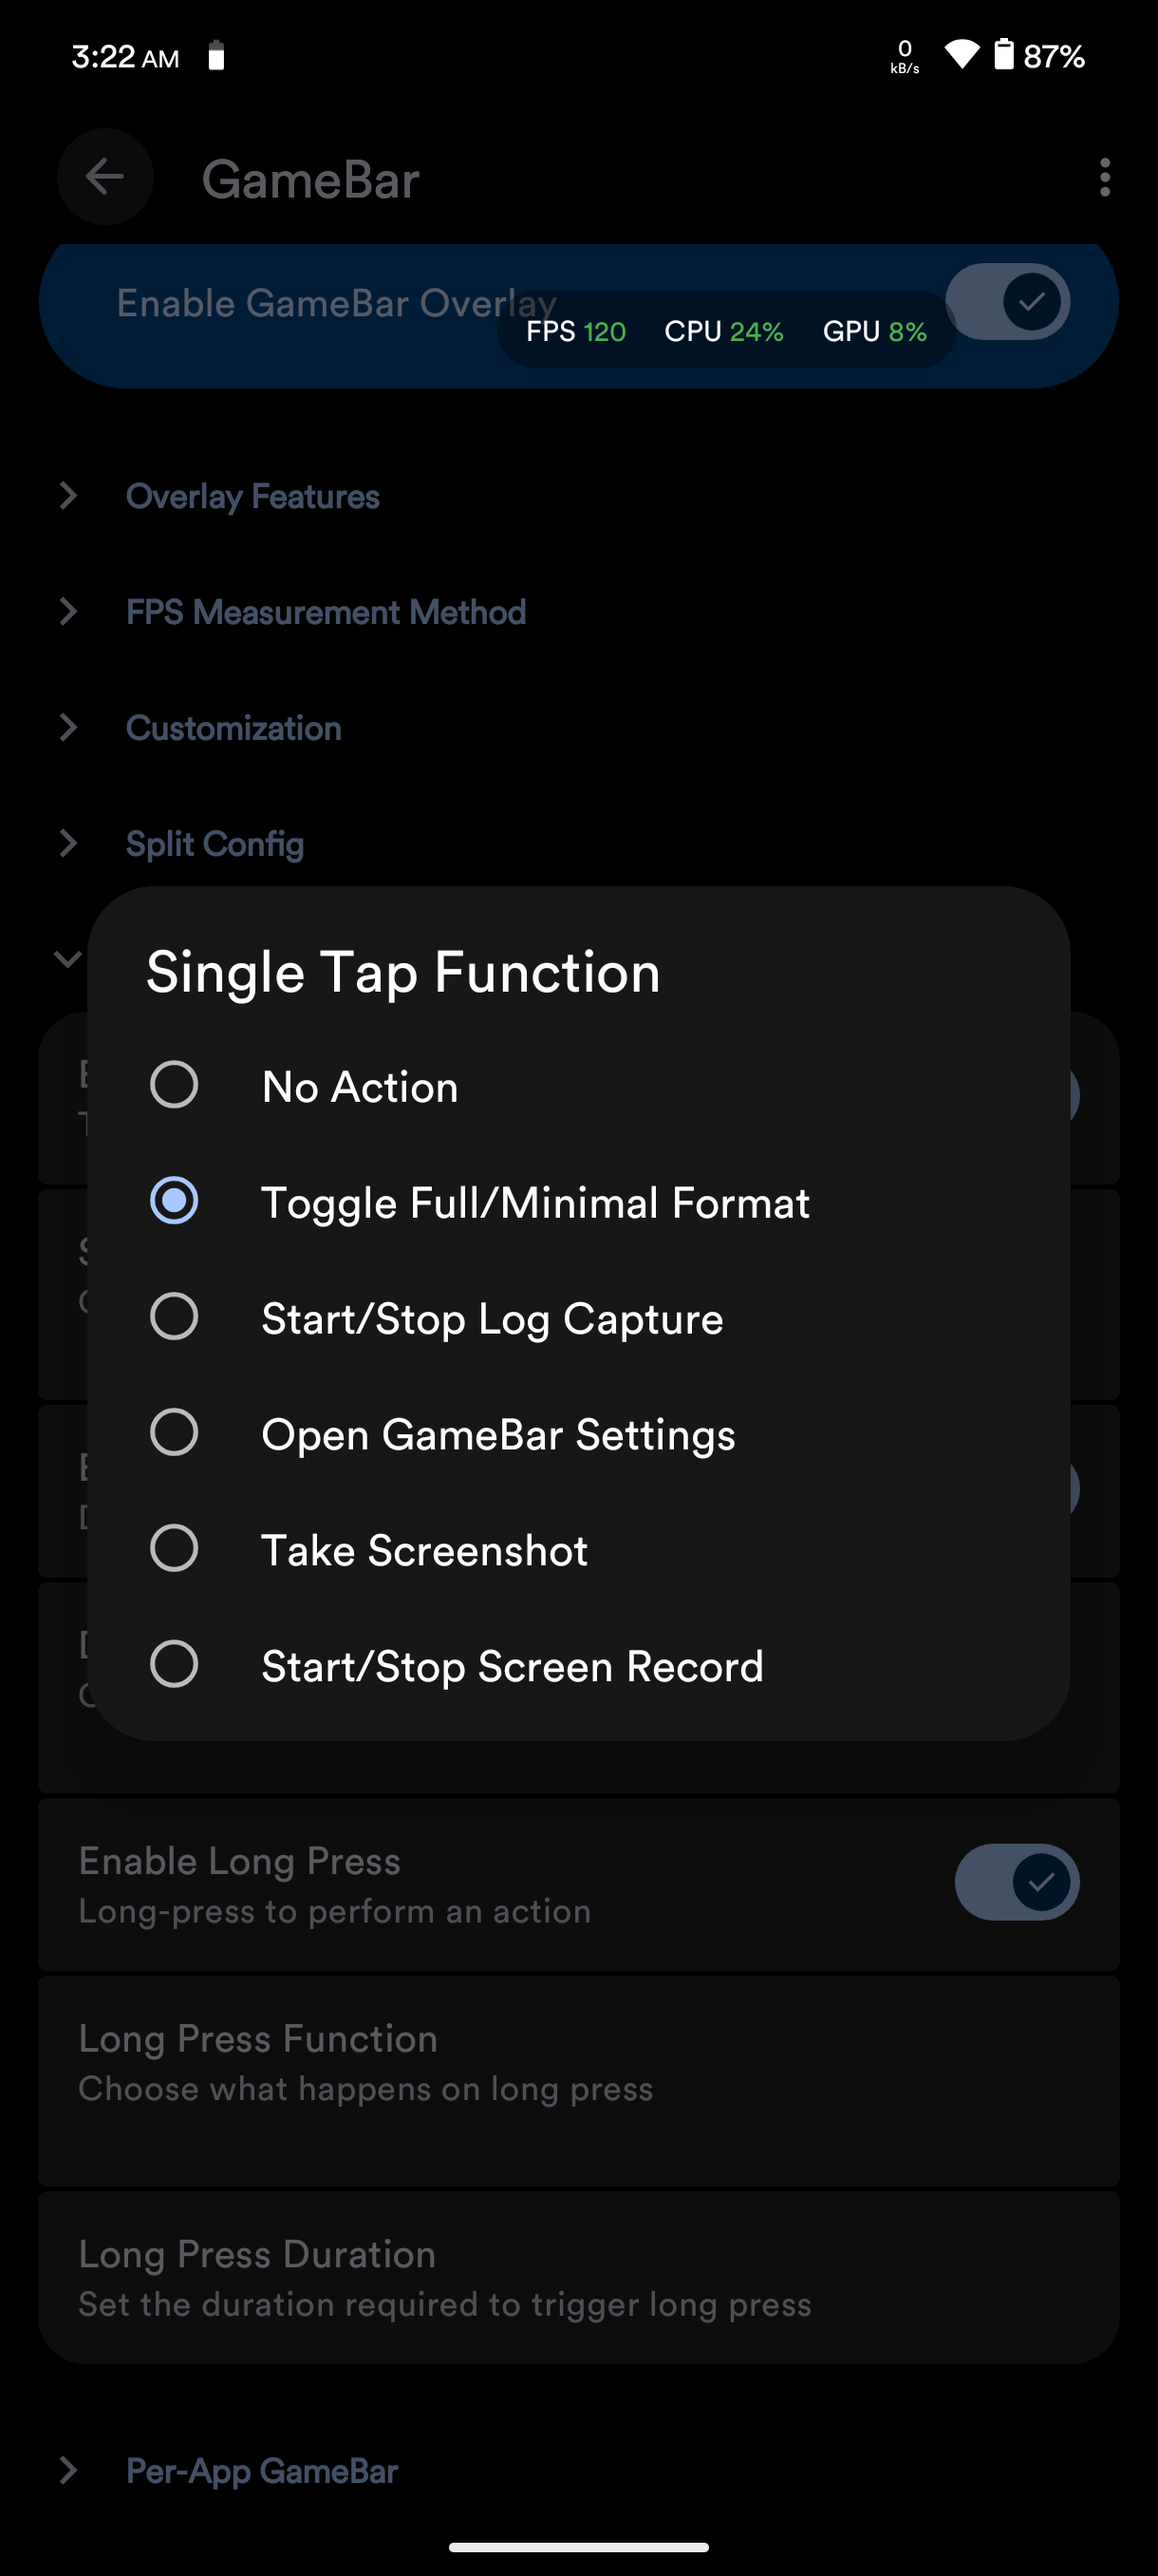
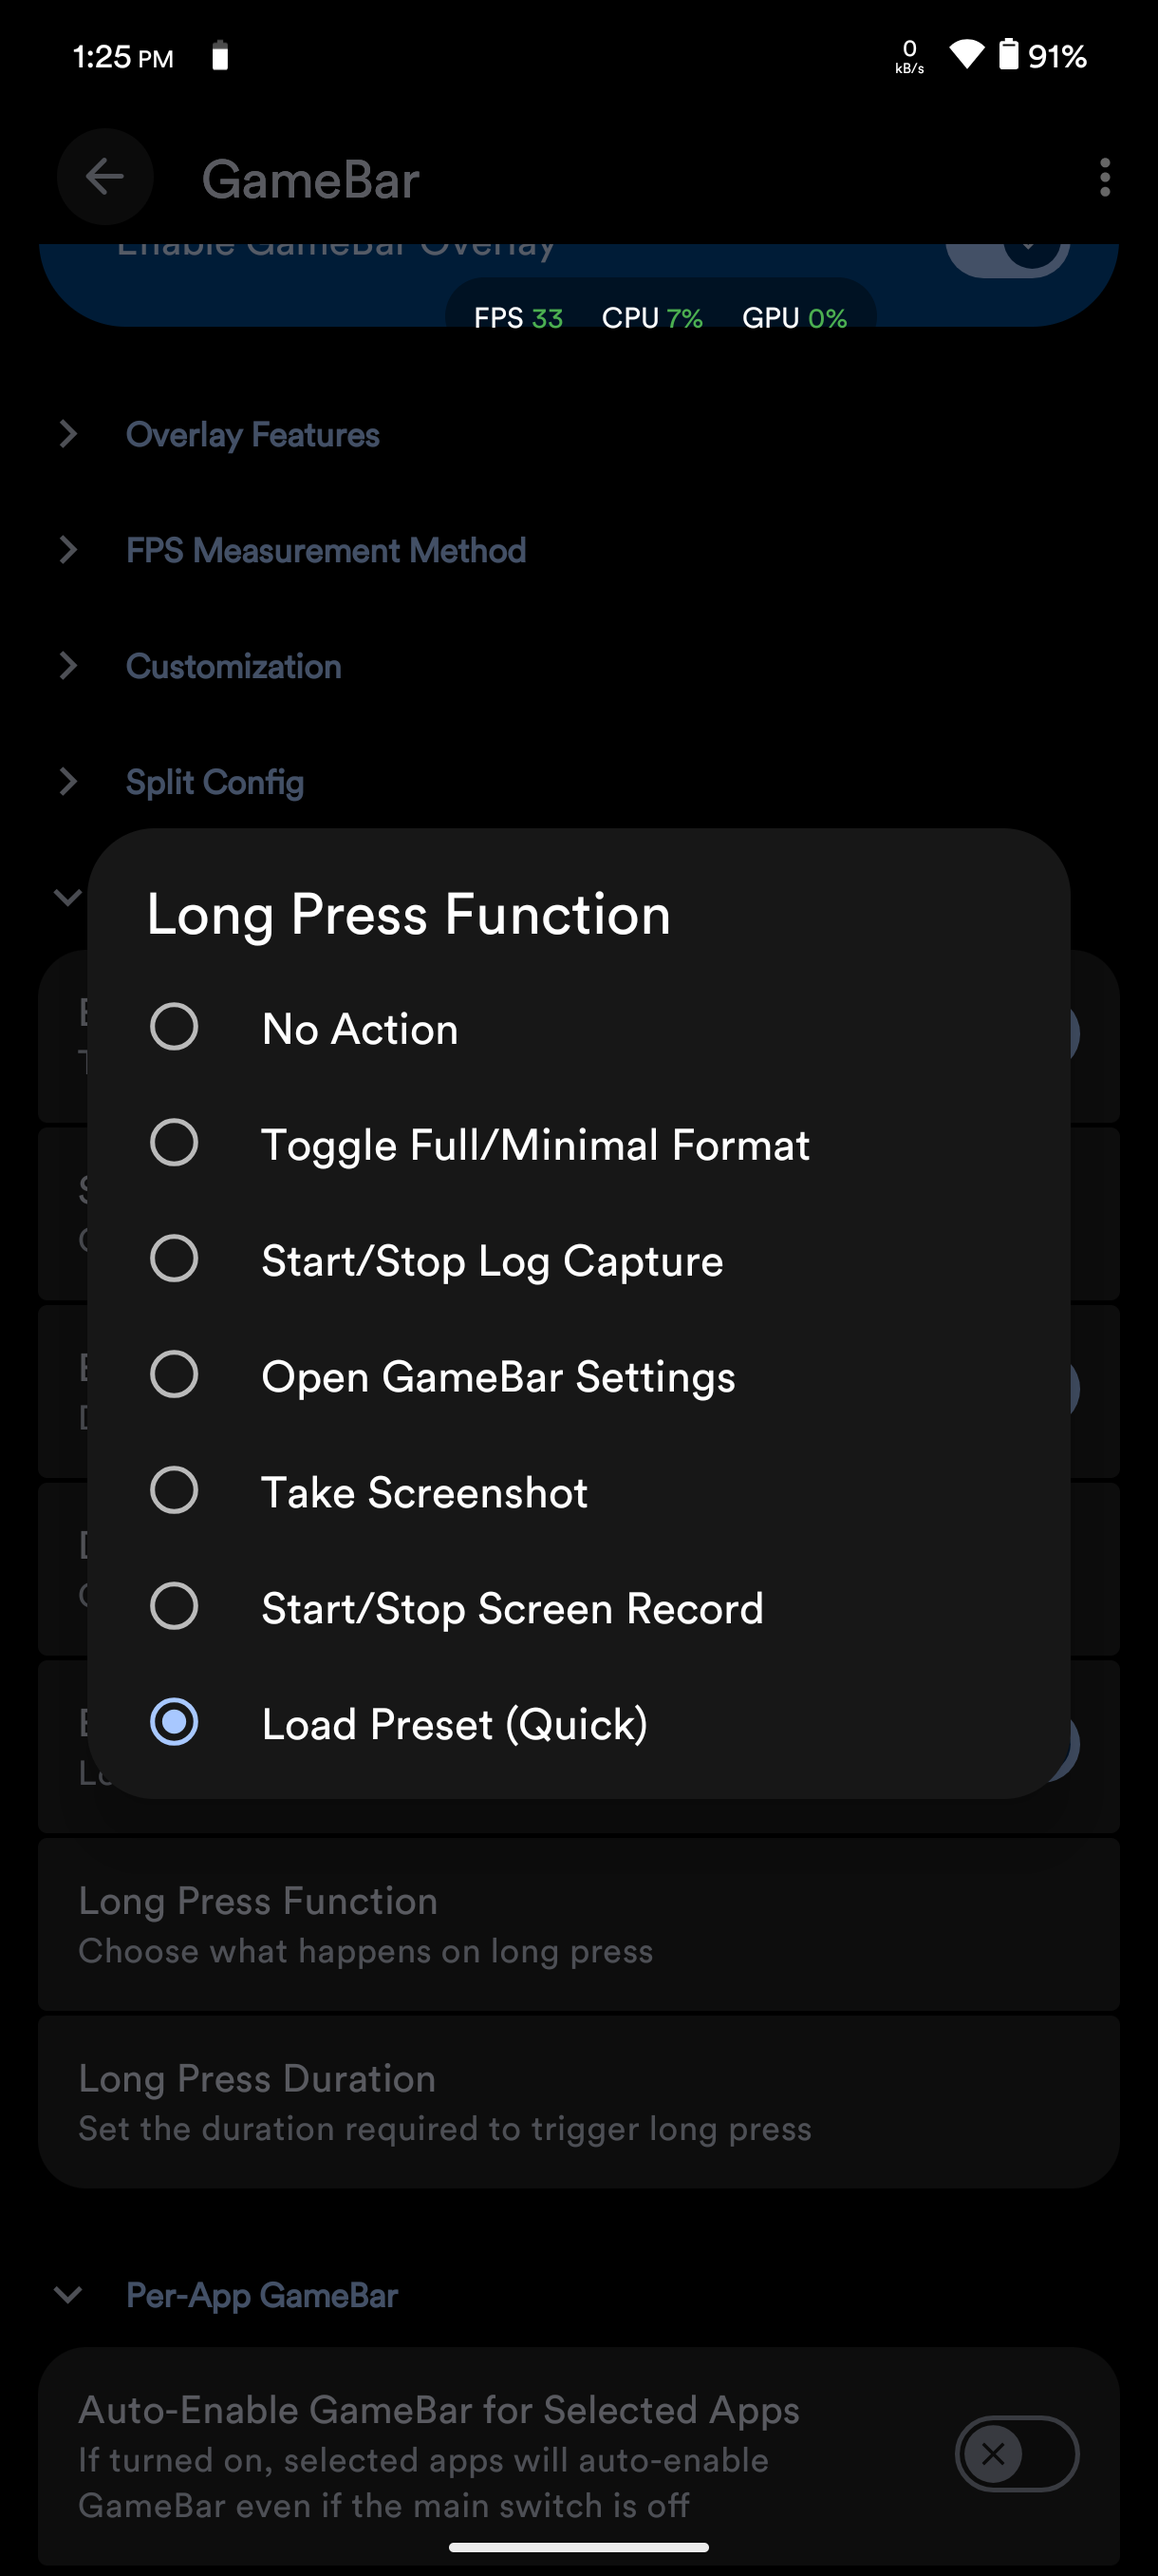
GameBar: Add quick preset loader overlay for gesture shortcuts
Implement floating preset selector that appears on gesture trigger,
allowing quick preset loading without opening the app.

diff --git a/src/com/android/gamebar/PresetQuickLoaderOverlay.kt b/src/com/android/gamebar/PresetQuickLoaderOverlay.kt
@@ -1,0 +1,275 @@
+/*
+ * SPDX-FileCopyrightText: 2025 kenway214
+ * SPDX-License-Identifier: Apache-2.0
+ */
+
+package com.android.gamebar
+
+import android.content.Context
+import android.graphics.Color
+import android.graphics.PixelFormat
+import android.graphics.drawable.GradientDrawable
+import android.view.Gravity
+import android.view.View
+import android.view.ViewGroup
+import android.view.WindowManager
+import android.widget.LinearLayout
+import android.widget.ScrollView
+import android.widget.TextView
+import android.util.TypedValue
+
+/**
+ * Quick preset loader overlay - shows a floating list of saved presets
+ * for quick loading without opening the app
+ */
+class PresetQuickLoaderOverlay(private val context: Context) {
+    
+    private val windowManager: WindowManager = context.getSystemService(Context.WINDOW_SERVICE) as WindowManager
+    private var overlayView: View? = null
+    private var isShowing = false
+    
+    fun show() {
+        if (isShowing) {
+            hide()
+            return
+        }
+        
+        val presetManager = PresetManager.getInstance(context)
+        val presets = presetManager.getAllPresets()
+        
+        if (presets.isEmpty()) {
+            // Show "No presets" message
+            showNoPresetsMessage()
+            return
+        }
+        
+        // Create overlay container
+        val container = LinearLayout(context).apply {
+            orientation = LinearLayout.VERTICAL
+            setPadding(dpToPx(16), dpToPx(16), dpToPx(16), dpToPx(16))
+            
+            // Background with rounded corners
+            val bg = GradientDrawable().apply {
+                setColor(Color.parseColor("#E0000000"))
+                cornerRadius = dpToPx(12).toFloat()
+            }
+            background = bg
+        }
+        
+        // Title
+        val title = TextView(context).apply {
+            text = "Quick Load Preset"
+            setTextSize(TypedValue.COMPLEX_UNIT_SP, 16f)
+            setTextColor(Color.WHITE)
+            typeface = android.graphics.Typeface.DEFAULT_BOLD
+            gravity = Gravity.CENTER
+            setPadding(0, 0, 0, dpToPx(12))
+        }
+        container.addView(title)
+        
+        // Scrollable preset list (max height 400dp)
+        val maxHeight = dpToPx(400)
+        val scrollView = ScrollView(context).apply {
+            layoutParams = LinearLayout.LayoutParams(
+                dpToPx(280),
+                maxHeight
+            )
+        }
+        
+        val presetList = LinearLayout(context).apply {
+            orientation = LinearLayout.VERTICAL
+        }
+        
+        // Add preset items
+        for (preset in presets) {
+            val presetItem = createPresetItem(preset, presetManager)
+            presetList.addView(presetItem)
+        }
+        
+        scrollView.addView(presetList)
+        container.addView(scrollView)
+        
+        // Close button
+        val closeButton = TextView(context).apply {
+            text = "✕ Close"
+            setTextSize(TypedValue.COMPLEX_UNIT_SP, 14f)
+            setTextColor(Color.parseColor("#FF5252"))
+            gravity = Gravity.CENTER
+            setPadding(dpToPx(12), dpToPx(12), dpToPx(12), dpToPx(12))
+            setOnClickListener {
+                hide()
+            }
+        }
+        container.addView(closeButton)
+        
+        // Window layout params
+        val params = WindowManager.LayoutParams(
+            WindowManager.LayoutParams.WRAP_CONTENT,
+            WindowManager.LayoutParams.WRAP_CONTENT,
+            WindowManager.LayoutParams.TYPE_APPLICATION_OVERLAY,
+            WindowManager.LayoutParams.FLAG_NOT_FOCUSABLE or
+                    WindowManager.LayoutParams.FLAG_WATCH_OUTSIDE_TOUCH,
+            PixelFormat.TRANSLUCENT
+        ).apply {
+            gravity = Gravity.CENTER
+        }
+        
+        overlayView = container
+        windowManager.addView(container, params)
+        isShowing = true
+        
+        // Auto-hide on outside touch
+        container.setOnTouchListener { _, event ->
+            if (event.action == android.view.MotionEvent.ACTION_OUTSIDE) {
+                hide()
+                true
+            } else {
+                false
+            }
+        }
+    }
+    
+    private fun createPresetItem(preset: PresetManager.Preset, presetManager: PresetManager): View {
+        return LinearLayout(context).apply {
+            orientation = LinearLayout.VERTICAL
+            setPadding(dpToPx(12), dpToPx(8), dpToPx(12), dpToPx(8))
+            
+            val bg = GradientDrawable().apply {
+                setColor(Color.parseColor("#40FFFFFF"))
+                cornerRadius = dpToPx(8).toFloat()
+            }
+            background = bg
+            
+            val margin = dpToPx(4)
+            layoutParams = LinearLayout.LayoutParams(
+                ViewGroup.LayoutParams.MATCH_PARENT,
+                ViewGroup.LayoutParams.WRAP_CONTENT
+            ).apply {
+                setMargins(0, margin, 0, margin)
+            }
+            
+            // Preset name
+            val nameText = TextView(context).apply {
+                text = preset.name
+                setTextSize(TypedValue.COMPLEX_UNIT_SP, 15f)
+                setTextColor(Color.WHITE)
+                typeface = android.graphics.Typeface.DEFAULT_BOLD
+            }
+            addView(nameText)
+            
+            // Preset date
+            val dateText = TextView(context).apply {
+                text = "Created: ${preset.createdDate}"
+                setTextSize(TypedValue.COMPLEX_UNIT_SP, 11f)
+                setTextColor(Color.parseColor("#B0FFFFFF"))
+                setPadding(0, dpToPx(2), 0, 0)
+            }
+            addView(dateText)
+            
+            // Click to load
+            setOnClickListener {
+                if (presetManager.loadPreset(preset.id)) {
+                    android.widget.Toast.makeText(
+                        context,
+                        "Loaded: ${preset.name}",
+                        android.widget.Toast.LENGTH_SHORT
+                    ).show()
+                    
+                    // Notify GameBar to refresh
+                    GameBar.getInstance(context).applyPreferences()
+                    
+                    hide()
+                } else {
+                    android.widget.Toast.makeText(
+                        context,
+                        "Failed to load preset",
+                        android.widget.Toast.LENGTH_SHORT
+                    ).show()
+                }
+            }
+        }
+    }
+    
+    private fun showNoPresetsMessage() {
+        val container = LinearLayout(context).apply {
+            orientation = LinearLayout.VERTICAL
+            setPadding(dpToPx(24), dpToPx(24), dpToPx(24), dpToPx(24))
+            gravity = Gravity.CENTER
+            
+            val bg = GradientDrawable().apply {
+                setColor(Color.parseColor("#E0000000"))
+                cornerRadius = dpToPx(12).toFloat()
+            }
+            background = bg
+        }
+        
+        val message = TextView(context).apply {
+            text = "No saved presets\n\nCreate presets in\nGameBar Settings"
+            setTextSize(TypedValue.COMPLEX_UNIT_SP, 14f)
+            setTextColor(Color.WHITE)
+            gravity = Gravity.CENTER
+            setPadding(0, 0, 0, dpToPx(16))
+        }
+        container.addView(message)
+        
+        val closeButton = TextView(context).apply {
+            text = "Close"
+            setTextSize(TypedValue.COMPLEX_UNIT_SP, 14f)
+            setTextColor(Color.parseColor("#4CAF50"))
+            gravity = Gravity.CENTER
+            setPadding(dpToPx(12), dpToPx(8), dpToPx(12), dpToPx(8))
+            setOnClickListener {
+                hide()
+            }
+        }
+        container.addView(closeButton)
+        
+        val params = WindowManager.LayoutParams(
+            WindowManager.LayoutParams.WRAP_CONTENT,
+            WindowManager.LayoutParams.WRAP_CONTENT,
+            WindowManager.LayoutParams.TYPE_APPLICATION_OVERLAY,
+            WindowManager.LayoutParams.FLAG_NOT_FOCUSABLE,
+            PixelFormat.TRANSLUCENT
+        ).apply {
+            gravity = Gravity.CENTER
+        }
+        
+        overlayView = container
+        windowManager.addView(container, params)
+        isShowing = true
+        
+        // Auto-hide after 3 seconds
+        android.os.Handler(android.os.Looper.getMainLooper()).postDelayed({
+            hide()
+        }, 3000)
+    }
+    
+    fun hide() {
+        if (isShowing && overlayView != null) {
+            try {
+                windowManager.removeView(overlayView)
+            } catch (e: Exception) {
+                // View already removed
+            }
+            overlayView = null
+            isShowing = false
+        }
+    }
+    
+    private fun dpToPx(dp: Int): Int {
+        return (dp * context.resources.displayMetrics.density).toInt()
+    }
+    
+    companion object {
+        @Volatile
+        private var instance: PresetQuickLoaderOverlay? = null
+        
+        fun getInstance(context: Context): PresetQuickLoaderOverlay {
+            return instance ?: synchronized(this) {
+                instance ?: PresetQuickLoaderOverlay(context.applicationContext).also {
+                    instance = it
+                }
+            }
+        }
+    }
+}

diff --git a/src/com/android/gamebar/GameBar.kt b/src/com/android/gamebar/GameBar.kt
@@ -229,6 +229,9 @@ class GameBar private constructor(context: Context) {
             "screen_record" -> {
                 toggleScreenRecording()
             }
+            "load_preset" -> {
+                showPresetQuickLoader()
+            }
         }
     }
 
@@ -1245,7 +1248,11 @@ class GameBar private constructor(context: Context) {
             android.util.Log.e("GameBar", "Screen recording error: ${e.message}")
         }
     }
-
+    
+    private fun showPresetQuickLoader() {
+        PresetQuickLoaderOverlay.getInstance(context).show()
+    }
+    
     private fun openOverlaySettings() {
         try {
             val intent = Intent(context, GameBarSettingsActivity::class.java)
